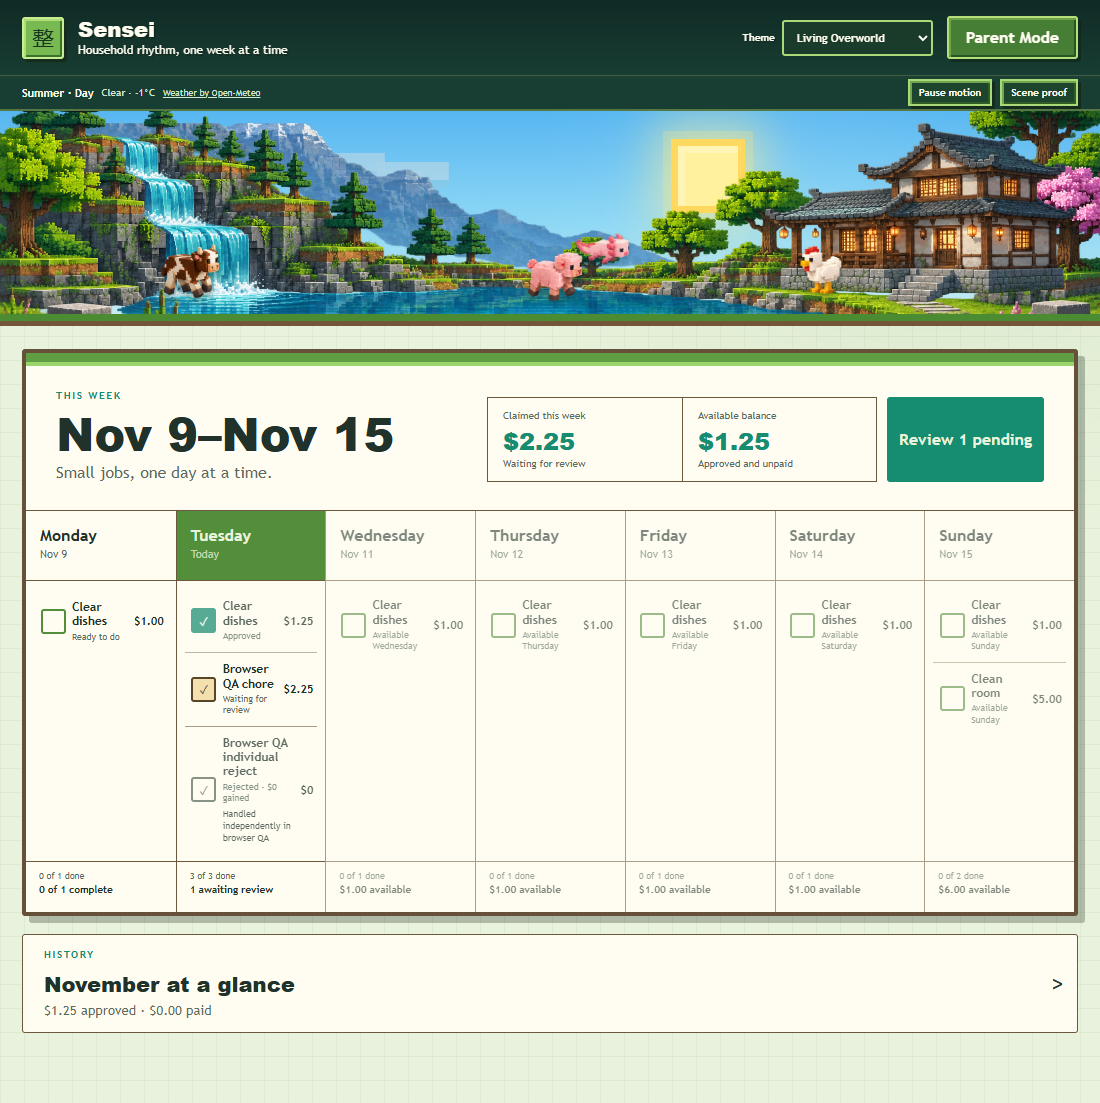
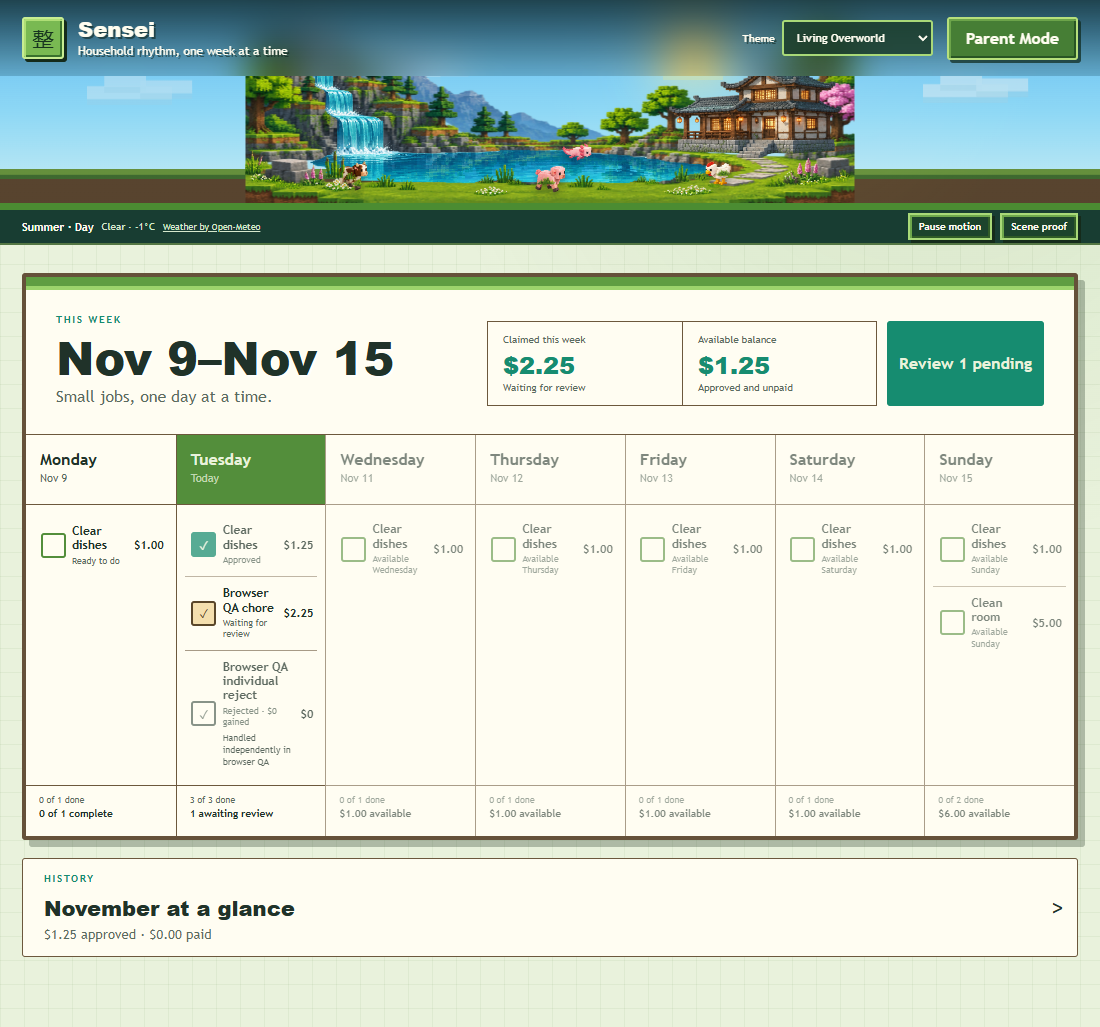
docs: refresh Living Overworld composition evidence

diff --git a/docs/LIVING_OVERWORLD_VISUAL_REVIEW.md b/docs/LIVING_OVERWORLD_VISUAL_REVIEW.md
@@ -6,7 +6,7 @@ Review status: **Accepted, merged, published, and deployed**
 
 Evidence source: isolated browser QA with synthetic household data; no production database was accessed.
 
-This page records the accepted Living Overworld 1.0 landscape, responsive, weather, season, lighting, and creature release. The household deployment uses compact-scene runtime commit `8c44168`; release evidence is summarized in [Current state](CURRENT_STATE.md).
+This page records the accepted Living Overworld 1.0 landscape, responsive, weather, season, lighting, and creature release. The refined composition uses runtime commit `cc4f3b4`; release evidence is summarized in [Current state](CURRENT_STATE.md).
 
 ## Seasonal composition and lighting
 
@@ -17,7 +17,7 @@ This page records the accepted Living Overworld 1.0 landscape, responsive, weath
 | Autumn · Evening | ![Autumn evening desktop](assets/screenshots/living-overworld-gate1-autumn-evening-desktop.png) | ![Autumn evening mobile](assets/screenshots/living-overworld-gate1-autumn-evening-mobile.png) |
 | Winter · Night | ![Winter night desktop](assets/screenshots/living-overworld-gate1-winter-night-desktop.png) | ![Winter night mobile](assets/screenshots/living-overworld-gate1-winter-night-mobile.png) |
 
-The shared fixed camera keeps the mountain and waterfall to the left, the lake through the center, and the retreat in the right third. Mobile uses proportional scaling with a small outer crop; it does not stretch the source layers. Functional controls sit in the header and scene toolbar, outside the 140 px scenic region.
+The shared fixed camera keeps the mountain and waterfall to the left, the lake through the center, and the retreat in the right third. Desktop preserves the banner height but presents the source layers at their natural 3:1 scale so the house, sky, and water remain visible rather than using an enlarged crop. Mobile uses proportional scaling with a small outer crop; it does not stretch the source layers. The global header overlays the sky with a transparent gradient, while the scene toolbar remains outside the scenic region.
 
 Automatic season selection uses `America/Los_Angeles`. A seven-day boundary window blends only the adjacent season; unchanged layers are reused, and the adjacent image is not mounted outside the transition. Morning, day, evening, and night use the cached Seattle-area sunrise/sunset response with deterministic Pacific-time fallbacks.
 
@@ -56,6 +56,7 @@ The existing detailed round moon and eight deterministic phases remain intact. T
 - Four seasonal landscapes, four lighting periods, seven-day adjacent-season transitions, and controlled image mounting.
 - Clear, partly cloudy, cloudy, rain, snow, and fog treatments driven by actual weather appearance data.
 - 210–250 px desktop and 140 px mobile landscapes, proportional viewport crops, no horizontal overflow, and compact controls outside the scene.
+- No artificial chimney smoke; the retreat artwork has no chimney.
 - Always-available motion control, `prefers-reduced-motion`, and hidden-page animation suspension.
 - Season, weather, light, and moon overrides available only with `?living-preview=1`.
 - Decorative elements remain outside keyboard navigation and the accessibility reading order.

diff --git a/docs/CURRENT_STATE.md b/docs/CURRENT_STATE.md
@@ -6,7 +6,7 @@ Repository baseline: the current published and deployed `main` household release
 
 ## Living Overworld 1.0
 
-Living Overworld 1.0 is merged, published, and deployed from runtime commit `8c44168`, including the compact desktop crop, reduced-height control strip, and grounded distant-mountain adjustment.
+Living Overworld 1.0 is merged and published through composition runtime commit `cc4f3b4`. The latest presentation keeps the 210–250 px desktop banner height while showing the layered 3:1 world at its natural zoomed-out scale, restores the visible lake, uses a transparent header overlay, and removes the unsupported chimney smoke effect. Mobile retains its approved 140 px proportions.
 
 Implemented and verified:
 
@@ -18,7 +18,7 @@ Implemented and verified:
 - Seven-day adjacent-season transitions with controlled image mounting, a 140 px mobile scene, proportional mobile cropping, and controls outside the scenery.
 - A weather-, season-, and time-aware population of sheep, pig, cow, chicken, and aquatic axolotl using fixed habitat corridors and CSS-only movement.
 - A maximum of three land animals plus one axolotl in clear daytime conditions, with reduced activity during clouds, rain, snow, fog, evening, winter, and night.
-- 51 automated tests, TypeScript checks, production build, and the full isolated browser QA workflow passing at the Living Overworld 1.0 checkpoint.
+- 51 automated tests, TypeScript checks, production build, and all 35 full isolated browser QA workflows passing at the latest Living Overworld 1.0 checkpoint.
 
 Intentionally outside Living Overworld 1.0:
 

diff --git a/docs/THEMES.md b/docs/THEMES.md
@@ -59,7 +59,8 @@ Living Overworld is a separate layered-world treatment rather than a replacement
 - A detailed round moon supports eight deterministic phases.
 - Sheep, pigs, cows, and chickens wander within lightweight land corridors; the axolotl remains in the lake.
 - Season, light, and weather cap the population without background simulation or pathfinding.
-- The scene is approximately 210–250 CSS pixels tall on desktop and 140 pixels on mobile, with a compact control strip outside the scenic area.
+- The scene is approximately 210–250 CSS pixels tall on desktop and 140 pixels on mobile. Desktop displays the aligned 3:1 layers at their natural zoomed-out scale, mobile keeps its proportional crop, the transparent global header overlays the sky, and a compact control strip remains outside the scenic area.
+- The lake, waterfall, retreat, and sky remain visible in the desktop composition; no chimney smoke is added to the chimney-free retreat.
 - The motion preference, reduced-motion media query, and hidden-page handling stop creature and environmental movement.
 
 | Living ecosystem — desktop | Living ecosystem — mobile |
